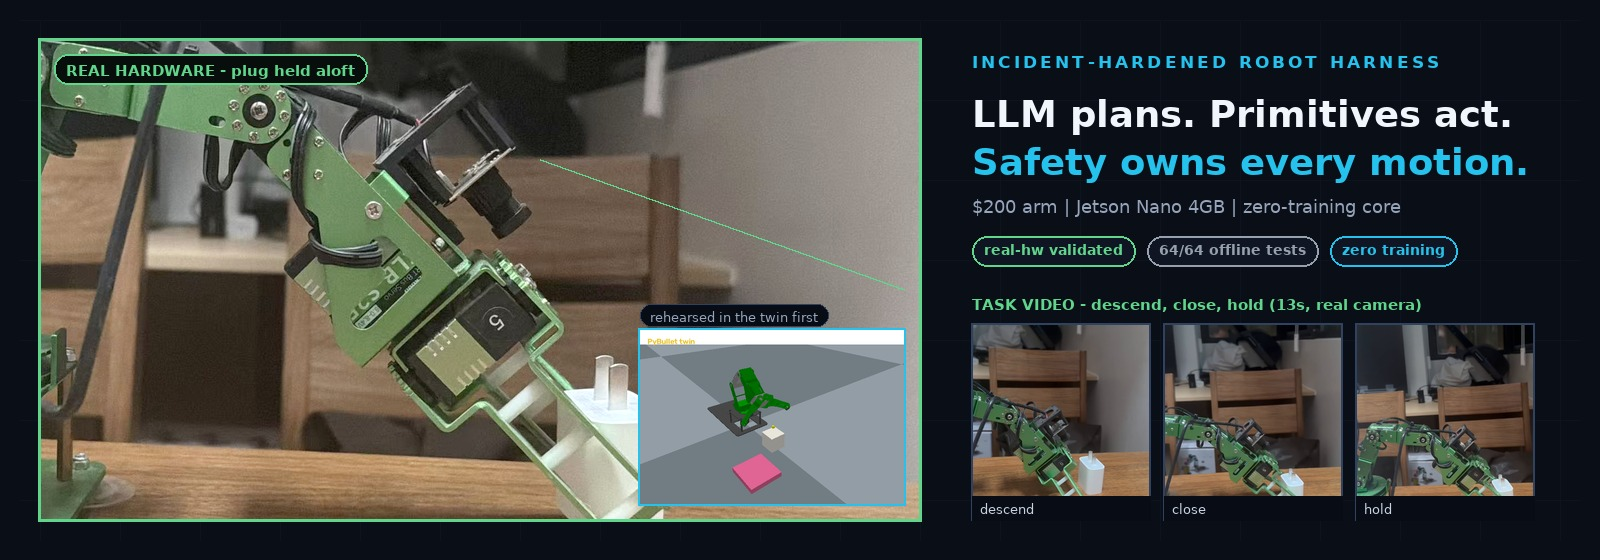
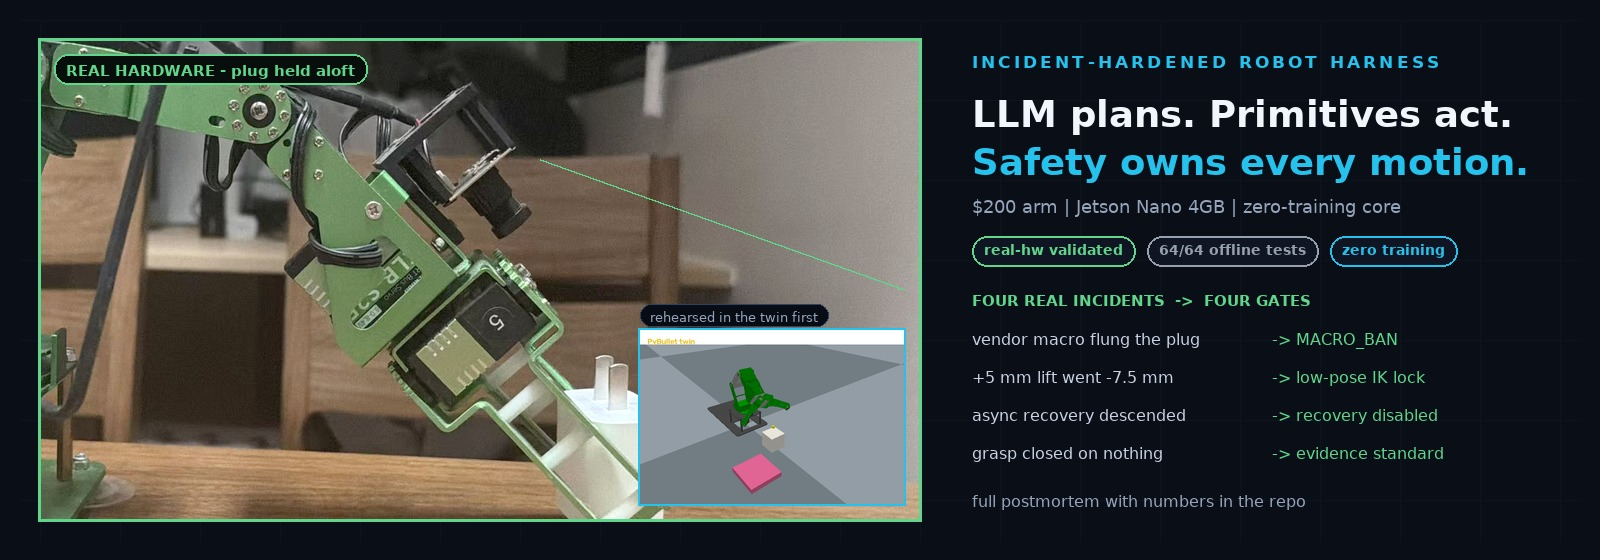
docs: retire the task video from the homepage
Measured decision: the 13s single-task clip showed zero engagement as a
social post and undersells the project on the homepage. The video stays
in docs/assets/hero/ as secondary evidence (linked from POSTMORTEM);
README no longer embeds it. The hero banner's video filmstrip is
replaced by the stronger story: four real incidents mapped to the four
gates they shipped.

Changed region(s): [[0.5938, 0.5161, 0.9688, 0.9107]]

diff --git a/scripts/generate_hero_banner.py b/scripts/generate_hero_banner.py
@@ -47,6 +47,7 @@ F_HEAD = ImageFont.truetype(str(FONT_DIR / "DejaVuSans-Bold.ttf"), 37)
 F_SUB = ImageFont.truetype(str(FONT_DIR / "DejaVuSans.ttf"), 18)
 F_PILL = ImageFont.truetype(str(FONT_DIR / "DejaVuSans-Bold.ttf"), 14)
 F_TAG = ImageFont.truetype(str(FONT_DIR / "DejaVuSans-Bold.ttf"), 15)
+F_BODY = ImageFont.truetype(str(FONT_DIR / "DejaVuSans.ttf"), 16)
 F_CAP = ImageFont.truetype(str(FONT_DIR / "DejaVuSans.ttf"), 14)
 F_CHIP = ImageFont.truetype(str(FONT_DIR / "DejaVuSans.ttf"), 13)
 
@@ -193,19 +194,22 @@ def main() -> int:
     px2 += pill(d, px2, 236, "64/64 offline tests", (150, 160, 175)) + 12
     pill(d, px2, 236, "zero training", CYAN)
 
-    d.text((cx, 296), "TASK VIDEO - descend, close, hold (13s, real camera)",
+    d.text((cx, 292), "FOUR REAL INCIDENTS  ->  FOUR GATES",
            font=F_TAG, fill=GREEN)
-    labels = ["descend", "close", "hold"]
-    fw, fh = 178, 196
-    for i, (frame_path, label) in enumerate(zip(args.video_frames, labels)):
-        fx = cx + i * (fw + 14)
-        fim = Image.open(frame_path).convert("RGB")
-        fim = crop_to_aspect(fim, fw / fh).resize((fw, fh), Image.LANCZOS)
-        img.paste(fim, (fx, 324))
-        d.rectangle([fx - 1, 324 - 1, fx + fw, 324 + fh],
-                    outline=(48, 66, 96), width=2)
-        d.rectangle([fx, 324 + fh - 24, fx + fw, 324 + fh], fill=(8, 12, 20))
-        d.text((fx + 8, 324 + fh - 19), label, font=F_CHIP, fill=BODY)
+    incident_rows = [
+        ("vendor macro flung the plug", "MACRO_BAN"),
+        ("+5 mm lift went -7.5 mm", "low-pose IK lock"),
+        ("async recovery descended", "recovery disabled"),
+        ("grasp closed on nothing", "evidence standard"),
+    ]
+    row_y = 330
+    for left, right in incident_rows:
+        d.text((cx, row_y), left, font=F_BODY, fill=BODY)
+        arrow_text = "-> " + right
+        d.text((cx + 300, row_y), arrow_text, font=F_BODY, fill=GREEN)
+        row_y += 38
+    d.text((cx, row_y + 10), "full postmortem with numbers in the repo",
+           font=F_BODY, fill=MUTED)
 
     img.save(str(args.out), quality=92)
     print("WROTE", args.out, img.size)

diff --git a/README.md b/README.md
@@ -3,16 +3,8 @@
 [![CI](https://github.com/vicfei/RoboHarness/actions/workflows/ci.yml/badge.svg?branch=main)](https://github.com/vicfei/RoboHarness/actions/workflows/ci.yml)
 
 <p align="center">
-  <img src="docs/assets/hero/hero_banner.jpg" alt="RoboHarness hero — real third-person photo of the arm holding the white plug aloft (with PyBullet twin inset), task-video filmstrip and status pills on the right. Regenerate with scripts/generate_hero_banner.py.">
+  <img src="docs/assets/hero/hero_banner.jpg" alt="RoboHarness hero — real third-person photo of the arm holding the white plug aloft (with PyBullet twin inset), headline and four real incidents mapped to four safety gates on the right. Regenerate with scripts/generate_hero_banner.py.">
 </p>
-
-<p align="center">
-  <img src="docs/assets/hero/arm_hold.gif" alt="13 s real-hardware grasp: descend, close, hold. Third-person view, the first fully-automatic closed-loop grasp (2026-11-14). Full-quality mp4 in docs/assets/hero/arm_hold.mp4" width="360">
-</p>
-
-<p align="center"><sub>13 s, real hardware, third-person view: descend → close → hold.
-The first fully-automatic closed-loop grasp (scan → center → grasp → verify), 2026-11-14.
-Full-quality clip: <a href="docs/assets/hero/arm_hold.mp4">arm_hold.mp4</a></sub></p>
 
 **An incident-hardened harness for $200-class 5-DOF bus-servo arms: LLM agents
 plan, deterministic primitives act, a real-hardware safety layer owns every

diff --git a/POSTMORTEM.md b/POSTMORTEM.md
@@ -111,8 +111,9 @@ from grip angle + current alone when the object is small.
 - Grasp evidence standard: grip angle + close-current peak + jaw-region
   vision before/after comparison; anything less reports "unverified", never
   "success".
-- The 2026-11-14 fully-automatic grasp (see the homepage video) passed this
-  standard; the plug-to-plate task remains open until M1.5 lands and contact
+- The 2026-11-14 fully-automatic grasp passed this standard (third-person video
+  preserved at [docs/assets/hero/arm_hold.mp4](docs/assets/hero/arm_hold.mp4));
+  the plug-to-plate task remains open until M1.5 lands and contact
   approaches are re-enabled on evidence.
 
 **Status:** locked by design; the honest status is "grasp works, transport
